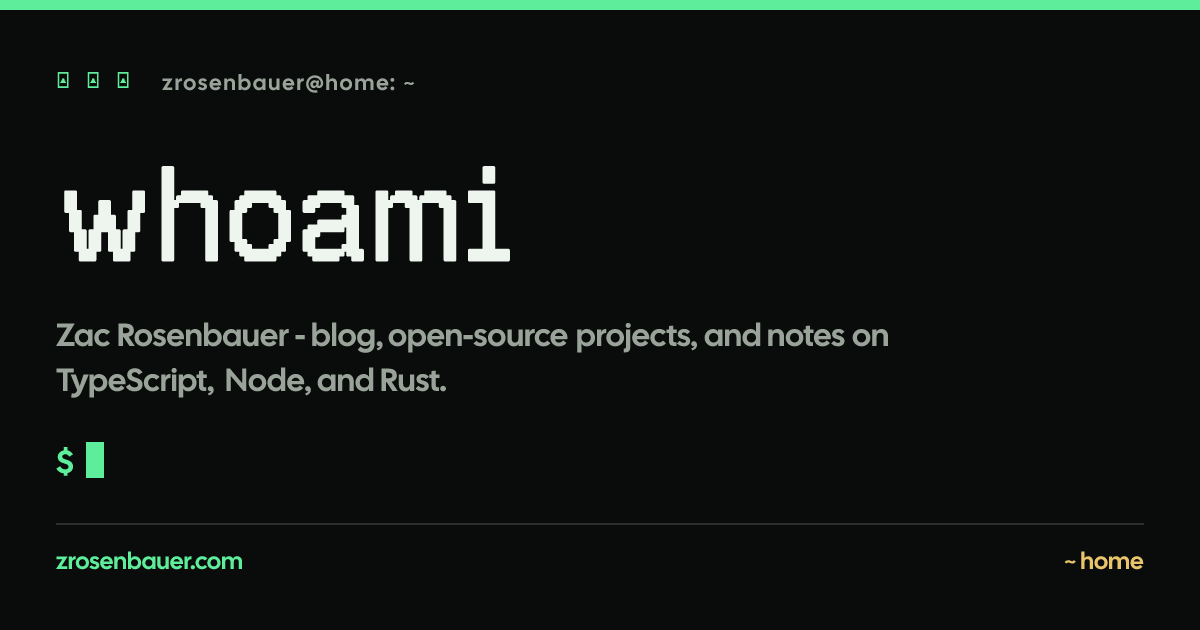
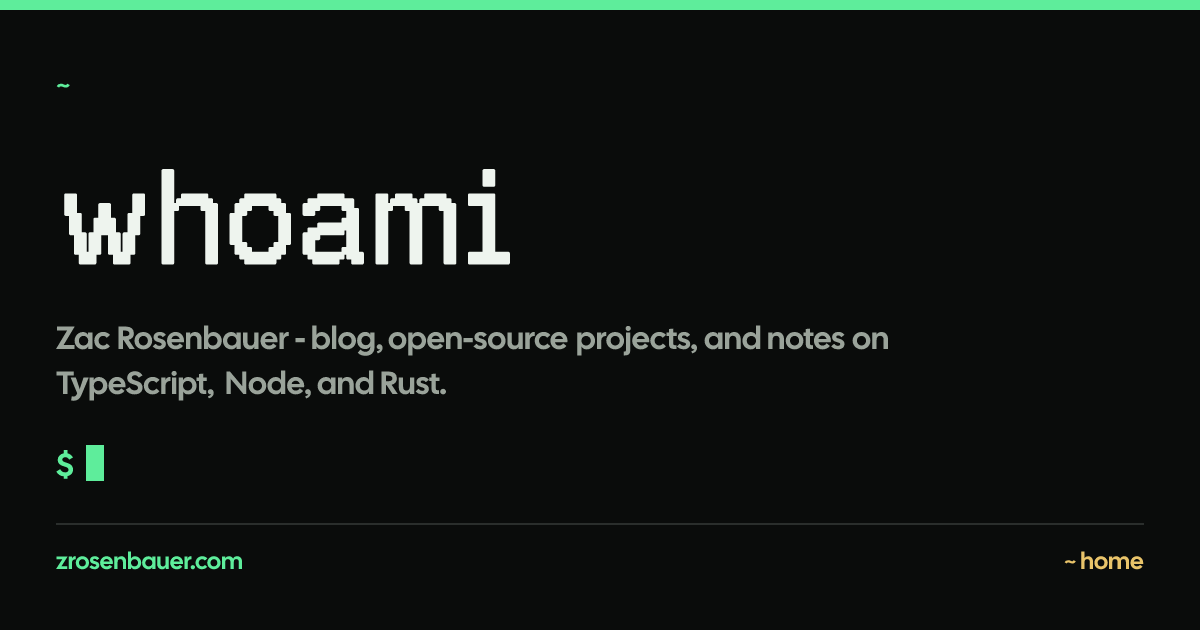
fix(og): simplify site OG header to a single ~

diff --git a/scripts/og-template.tsx b/scripts/og-template.tsx
@@ -71,17 +71,11 @@ const siteTemplate = (): ReactElement => {
       <div
         style={{
           display: 'flex',
-          alignItems: 'center',
-          gap: 14,
-          fontSize: 22,
-          color: COLORS.muted,
-          letterSpacing: '0.08em',
+          fontSize: 28,
+          color: COLORS.primary,
         }}
       >
-        <span style={{ color: COLORS.primary }}>●</span>
-        <span style={{ color: COLORS.primary }}>●</span>
-        <span style={{ color: COLORS.primary }}>●</span>
-        <span style={{ marginLeft: 16 }}>zrosenbauer@home: ~</span>
+        ~
       </div>
 
       <div
